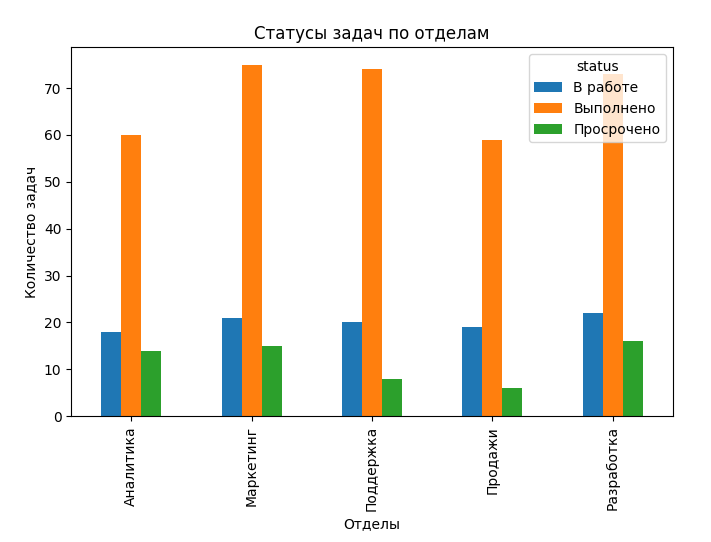
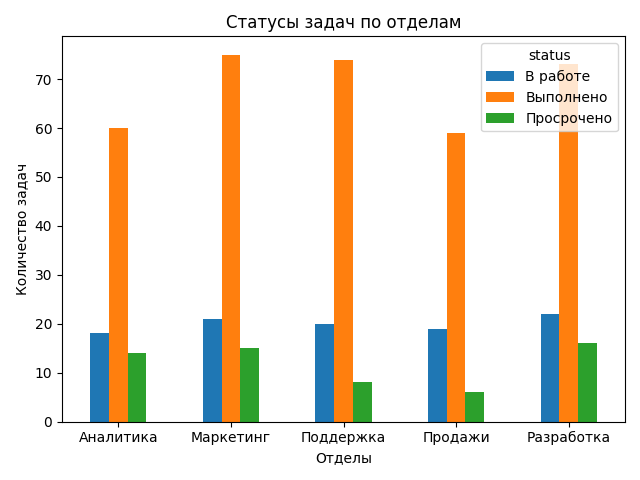
Finalize task performance dashboard

Changed region(s): [[0.0312, 0.0312, 0.9688, 1.0], [0.1562, 0.25, 0.2188, 0.2812], [0.0625, 0.875, 0.0938, 0.9062]]

diff --git a/analysis.py b/analysis.py
@@ -5,7 +5,6 @@ employees_df = pd.read_csv("employees.csv")
 tasks_df = pd.read_csv("tasks.csv")
 
 merge_df = pd.merge(employees_df, tasks_df, on="employee_id", how="left")
-print()
 
 tasks_by_employee = tasks_df.groupby("employee_id")["task_id"].count()
 print("Количество задач по сотрудникам:")
@@ -26,29 +25,35 @@ print("Статусы задач по отделам:")
 print(department_status)
 print()
 
-#Графики
-#1
+# Графики
+# 1. Количество задач по статусам
 tasks_df["status"].value_counts().plot(kind="bar")
 plt.title("Количество задач по статусам")
 plt.xlabel("Статус")
+plt.xticks(rotation=0)
 plt.ylabel("Количество задач")
+plt.tight_layout()
 plt.show()
 
-#2
+# 2. Количество задач по отделам
 department_tasks.plot(kind="bar")
 plt.title("Количество задач по отделам")
 plt.xlabel("Отделы")
+plt.xticks(rotation=0)
 plt.ylabel("Количество задач")
+plt.tight_layout()
 plt.show()
 
-#3
+# 3. Статусы задач по отделам
 department_status.plot(kind="bar")
 plt.title("Статусы задач по отделам")
 plt.xlabel("Отделы")
+plt.xticks(rotation=0)
 plt.ylabel("Количество задач")
+plt.tight_layout()
 plt.show()
 
-#4
+# 4. Топ сотрудников по количеству задач
 top_employees = (
     merge_df.groupby("employee_name")["task_id"]
     .count()
@@ -56,9 +61,90 @@ top_employees = (
     .head(10)
 )
 
-top_employees.plot(kind="bar")
+ax = top_employees.plot(kind="barh")
 plt.title("Топ сотрудников по количеству задач")
-plt.xlabel("Сотрудники")
-plt.ylabel("Количество задач")
+plt.xlabel("Количество задач")
+plt.ylabel("Сотрудники")
+plt.tight_layout()
+ax.invert_yaxis()
+ax.bar_label(ax.containers[0])
 plt.show()
 
+# Какой сотрудник выполняет больше всего просроченных задач?
+overdue = (
+    tasks_df[tasks_df["status"] == "Просрочено"]
+    .groupby("employee_id")
+    .size()
+    .sort_values(ascending=False)
+)
+top_overdue = overdue.reset_index(name="overdue_tasks")
+top_overdue = top_overdue.merge(employees_df, on="employee_id")
+top_overdue = top_overdue[["employee_name", "department", "overdue_tasks"]]
+print("Топ-10 сотрудников по просроченным задачам:")
+print(top_overdue.head(10))
+print()
+
+# Топ-5 сотрудников по просроченным задачам
+top_5 = top_overdue.head(5)
+ax = top_5.plot(
+    kind="barh",
+    x="employee_name",
+    y="overdue_tasks",
+    legend=False,
+    title="Топ-5 сотрудников по просроченным задачам"
+)
+plt.xlabel("Количество просроченных задач")
+plt.ylabel("Сотрудник")
+plt.tight_layout()
+ax.invert_yaxis()
+plt.show()
+
+# В каких отделах в сумме больше всего просроченных задач
+overdue_tasks_department = (
+    top_overdue[["department", "overdue_tasks"]]
+    .groupby("department")
+    .sum()
+    .sort_values(by="overdue_tasks", ascending=False)
+)
+print("Отдел с наибольшим количеством просроченных задач:")
+print(overdue_tasks_department.head(1))
+print()
+
+# Всего задач по отделам
+department_total = merge_df.groupby("department").size()
+print("Всего задач по отделам:")
+print(department_total)
+print()
+
+# Просроченных задач по отделам
+department_overdue = (
+    merge_df[merge_df["status"] == "Просрочено"]
+    .groupby("department")
+    .size()
+    .reindex(department_total.index, fill_value=0)
+)
+print("Просроченных задач по отделам:")
+print(department_overdue)
+print()
+
+# Процент просроченных задач по отделам
+overdue_percent = round(
+    (department_overdue / department_total * 100),
+    1
+)
+
+# Рейтинг отделов по доле просроченных задач
+top_overdue_percent = overdue_percent.sort_values(ascending=False)
+
+print("Рейтинг отделов по доле просроченных задач:")
+print(top_overdue_percent.astype(str) + "%")
+print()
+
+# График рейтинга отделов по проценту просрочек
+top_overdue_percent.plot(kind="bar")
+plt.title("Доля просроченных задач по отделам")
+plt.xlabel("Отделы")
+plt.xticks(rotation=0)
+plt.ylabel("Доля просроченных задач, %")
+plt.tight_layout()
+plt.show()

diff --git a/README.md b/README.md
@@ -1,6 +1,6 @@
 # Task Performance Dashboard
 
-Проект для анализа производительности сотрудников с использованием Python, Pandas и Matplotlib.
+Учебный аналитический проект для анализа производительности сотрудников, загрузки и обработки данных, расчёта метрик и визуализации результатов с использованием Python, Pandas и Matplotlib.
 
 ## Описание
 
@@ -10,8 +10,12 @@
 
 * количество задач по сотрудникам;
 * количество задач по отделам;
-* распределение статусов задач;
-* основные показатели производительности.
+* распределение статусов задач по отделам;
+* топ сотрудников по количеству задач;
+* топ сотрудников по количеству просроченных задач;
+* количество просроченных задач по отделам;
+* доля просроченных задач по отделам;
+* рейтинг отделов по доле просроченных задач.
 
 ## Используемые технологии
 
@@ -21,10 +25,12 @@
 
 ## Структура проекта
 
-* `generate_data.py` — генерация тестовых данных;
-* `analysis.py` — анализ и визуализация данных;
-* `employees.csv` — данные сотрудников;
-* `tasks.csv` — данные задач.
+- `generate_data.py` - генерация тестовых данных;
+- `analysis.py` - анализ и визуализация данных;
+- `employees.csv` - данные сотрудников;
+- `tasks.csv` - данные задач;
+- `requirements.txt` - зависимости проекта;
+- `screenshots/` - изображения графиков.
 
 ## Запуск проекта
 
@@ -48,12 +54,20 @@ python analysis.py
 
 ## Результат
 
-Проект демонстрирует базовые навыки работы с:
+Проект демонстрирует навыки работы с:
 
-* Pandas (merge, groupby, pivot table);
-* обработкой данных;
-* построением графиков;
-* использованием Git и GitHub.
+* Pandas (`merge`, `groupby`, `value_counts`, `unstack`, сортировка и фильтрация данных);
+* расчётом агрегированных показателей;
+* анализом абсолютных и относительных метрик;
+* Matplotlib и построением столбчатых диаграмм;
+* генерацией тестовых данных;
+* Git и GitHub.
+
+## Основные выводы
+
+* Наибольшее абсолютное количество просроченных задач приходится на отдел разработки - 16.
+* Самая высокая доля просроченных задач наблюдается в отделе аналитики - 15.2%.
+* Это показывает, что абсолютное количество просрочек и их доля от общей нагрузки могут давать разную оценку эффективности отдела.
 
 ## Dashboard Preview
 
@@ -72,3 +86,11 @@ python analysis.py
 ### Top Employees by Number of Tasks
 
 ![Top Employees by Number of Tasks](screenshots/top_employees_by_tasks.png)
+
+### Top 5 Employees by Overdue Tasks
+
+![Top 5 Employees by Overdue Tasks](screenshots/top_5_employees_by_overdue_tasks.png)
+
+### Overdue Task Rate by Department
+
+![Overdue Task Rate by Department](screenshots/overdue_task_rate_by_department.png)
